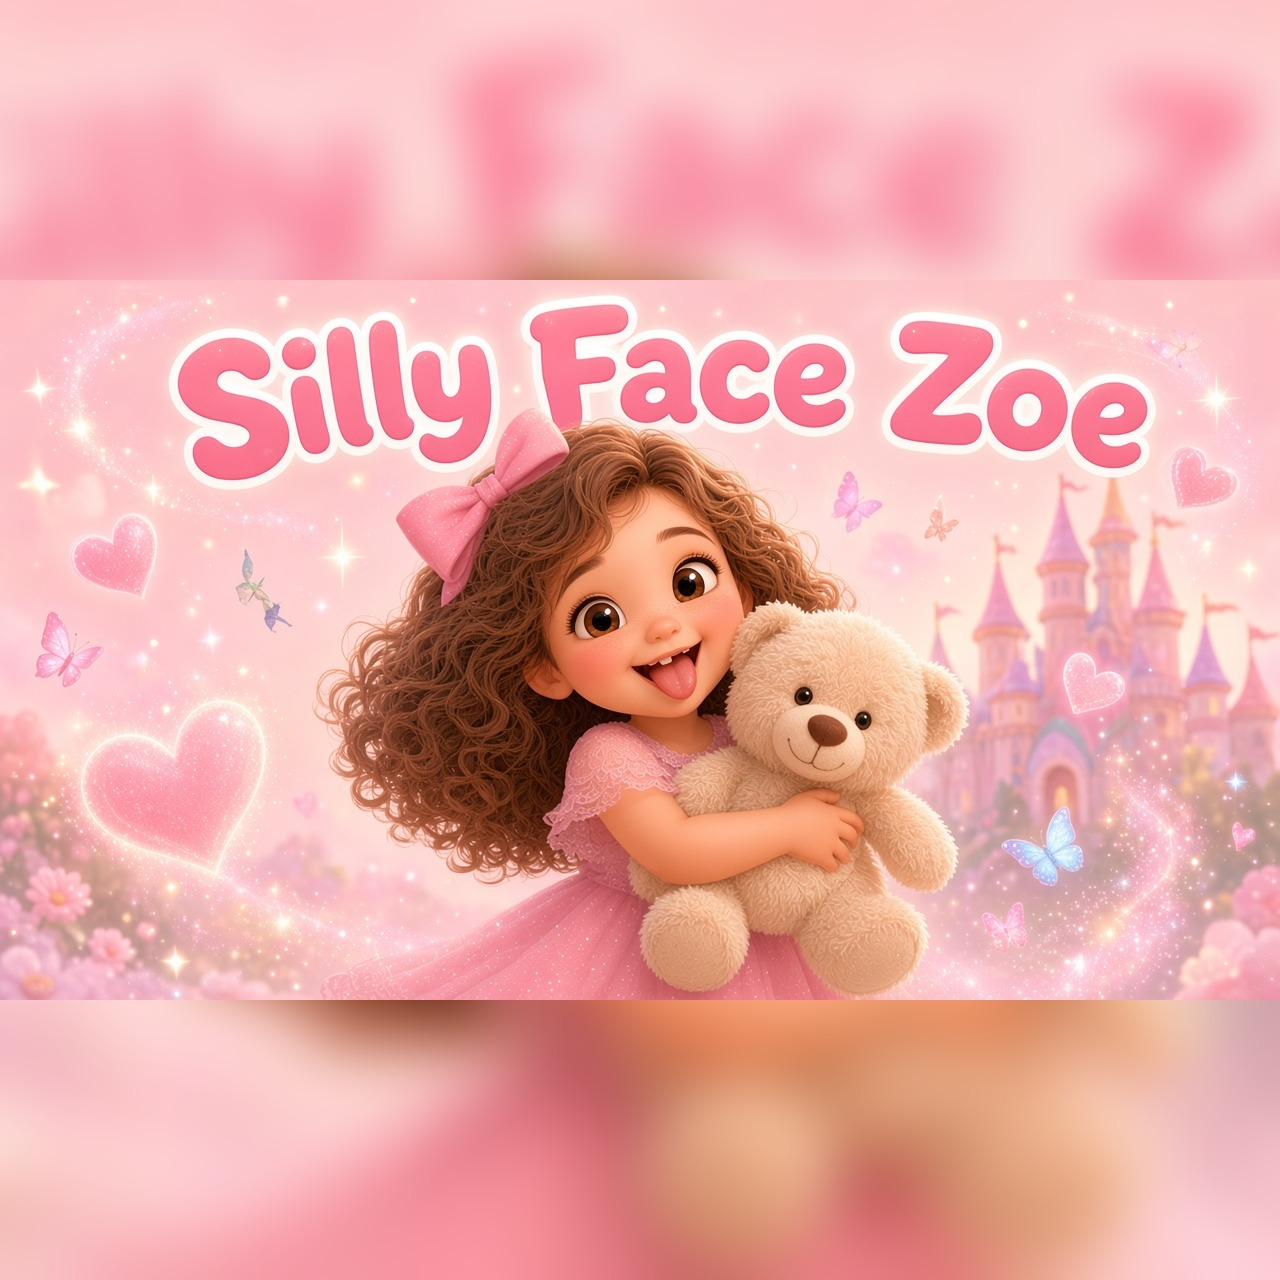
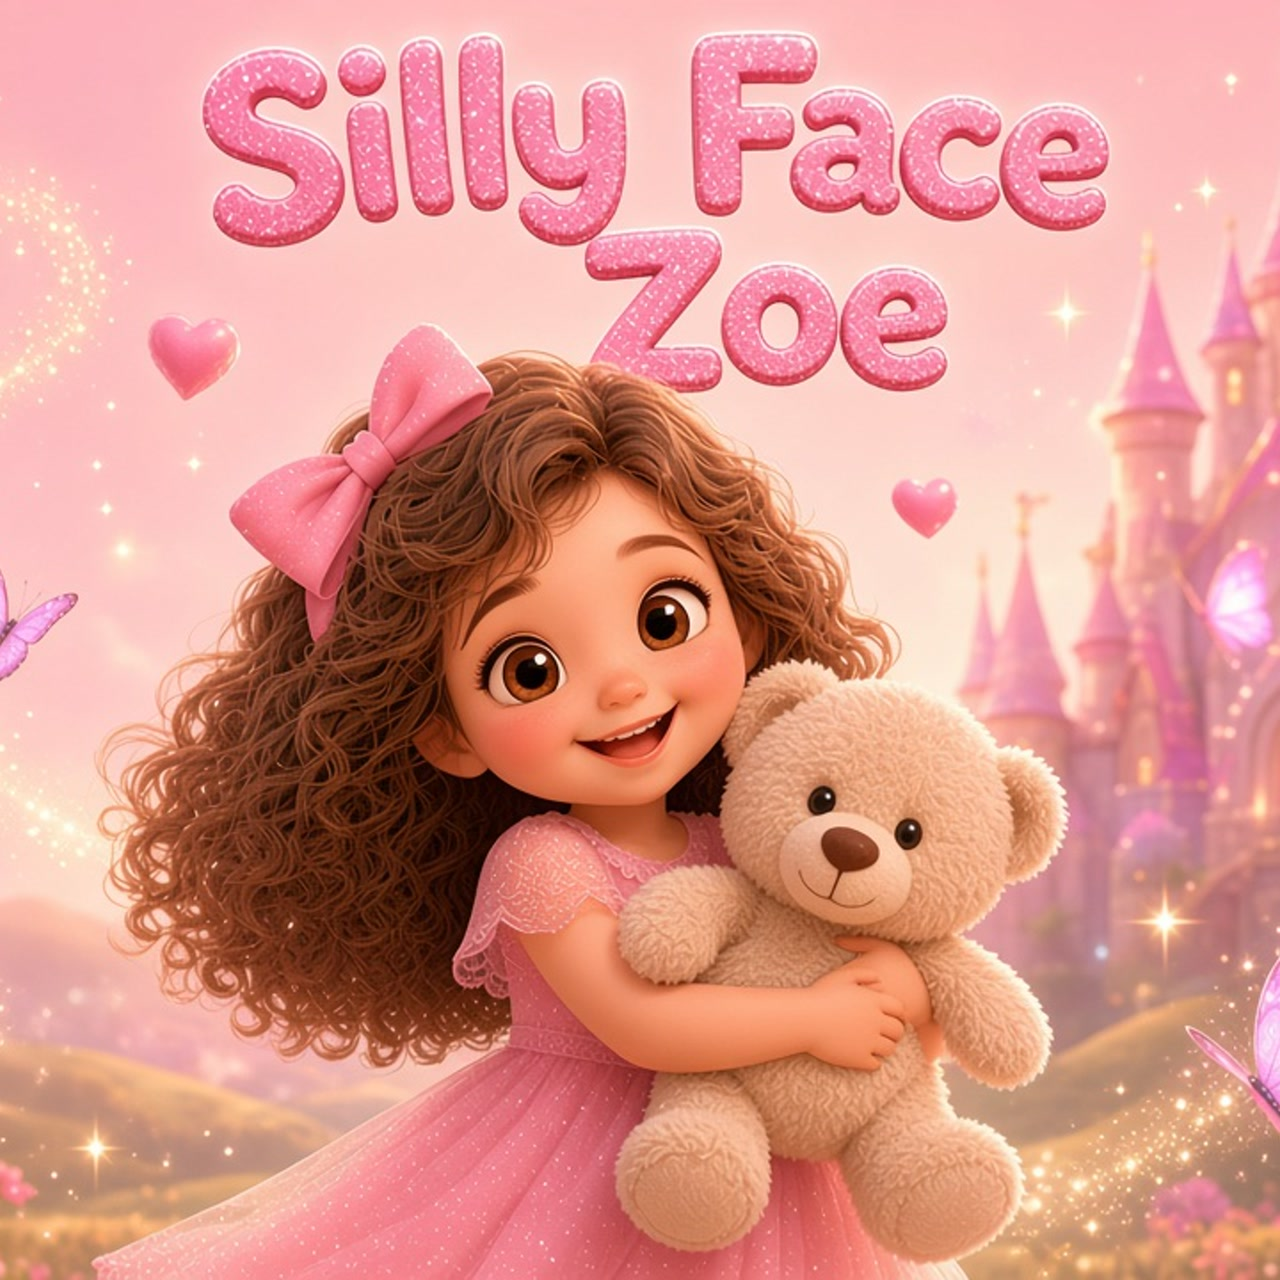
Restore Silly Face Zoe v3 to the jukebox and bump the service worker.

diff --git a/sw.js b/sw.js
@@ -1,6 +1,6 @@
 // offline support: precache everything; pages+scripts network-first (cache fallback offline), media cache-first.
 // Navigations are cached under their own URL (hub at ./, game at play/), so one page never overwrites the other.
-const P='alex-games-',V='2.9.18-20261119nosilly',C=P+V,A=["index.html", "manifest.json", "apple-touch-icon.png", "favicon-32.png", "icon-192.png", "icon-512.png", "hub/bg.jpg", "hub/alex-doodle-adventure.jpg", "hub/a_ad.mp3", "hub/alex-excavator-blowout.jpg", "hub/alex-cave-rescue.jpg", "hub/alex-galaxy-math.jpg", "hub/alex-river-run.jpg", "hub/alex-floor-is-lava.jpg", "hub/fry-thief-seagull.jpg", "hub/the-bee-game.jpg", "hub/wilson-water-pirates.jpg", "hub/dino-stampede-smash-alex.jpg", "hub/a_hi.mp3", "hub/a_eb.mp3", "hub/a_cr.mp3", "hub/a_gm.mp3", "hub/a_rr.mp3", "hub/a_fl.mp3", "hub/a_ps.mp3", "hub/a_bg.mp3", "hub/a_wp.mp3", "hub/a_ds.mp3", "hub/intro1.mp3", "hub/intro2.mp3", "hub/intro3.mp3", "hub/a_case.mp3", "hub/a_dad.mp3", "hub/silly-beat-band.jpg", "hub/a_sb.mp3", "hub/theme.mp3", "hub/doodles-song.jpg", "hub/doodles-song-poster.jpg", "hub/doodle-dance.jpg", "hub/go-alex-go.jpg", "hub/dance-with-dad.jpg", "hub/real-doodle.jpg", "hub/real-doodle.json", "hub/real-doodle/judgy-loaf.jpg", "hub/real-doodle/couch-loaf.jpg", "hub/real-doodle/big-loaf.jpg", "hub/real-doodle/paw-face.jpg", "hub/real-doodle/tree-snooze.jpg", "hub/doodle-song.css", "hub/doodle-song.js", "hub/jukebox.css", "hub/jukebox.js"];
+const P='alex-games-',V='2.9.19-20261119sillyv3',C=P+V,A=["index.html", "manifest.json", "apple-touch-icon.png", "favicon-32.png", "icon-192.png", "icon-512.png", "hub/bg.jpg", "hub/alex-doodle-adventure.jpg", "hub/a_ad.mp3", "hub/alex-excavator-blowout.jpg", "hub/alex-cave-rescue.jpg", "hub/alex-galaxy-math.jpg", "hub/alex-river-run.jpg", "hub/alex-floor-is-lava.jpg", "hub/fry-thief-seagull.jpg", "hub/the-bee-game.jpg", "hub/wilson-water-pirates.jpg", "hub/dino-stampede-smash-alex.jpg", "hub/a_hi.mp3", "hub/a_eb.mp3", "hub/a_cr.mp3", "hub/a_gm.mp3", "hub/a_rr.mp3", "hub/a_fl.mp3", "hub/a_ps.mp3", "hub/a_bg.mp3", "hub/a_wp.mp3", "hub/a_ds.mp3", "hub/intro1.mp3", "hub/intro2.mp3", "hub/intro3.mp3", "hub/a_case.mp3", "hub/a_dad.mp3", "hub/silly-beat-band.jpg", "hub/a_sb.mp3", "hub/theme.mp3", "hub/doodles-song.jpg", "hub/doodles-song-poster.jpg", "hub/doodle-dance.jpg", "hub/silly-face-zoe.jpg", "hub/go-alex-go.jpg", "hub/dance-with-dad.jpg", "hub/real-doodle.jpg", "hub/real-doodle.json", "hub/real-doodle/judgy-loaf.jpg", "hub/real-doodle/couch-loaf.jpg", "hub/real-doodle/big-loaf.jpg", "hub/real-doodle/paw-face.jpg", "hub/real-doodle/tree-snooze.jpg", "hub/doodle-song.css", "hub/doodle-song.js", "hub/jukebox.css", "hub/jukebox.js"];
 self.addEventListener('install',e=>{e.waitUntil(caches.open(C).then(c=>Promise.all(A.map(u=>fetch(new Request(u,{cache:'reload'})).then(res=>{if(res.ok)return c.put(u,res)}).catch(()=>{})))).then(()=>self.skipWaiting()))});
 self.addEventListener('activate',e=>{e.waitUntil(caches.keys().then(ks=>Promise.all(ks.filter(k=>k.startsWith(P)&&k!==C).map(k=>caches.delete(k)))).then(()=>self.clients.claim()).then(()=>self.clients.matchAll()).then(cs=>cs.forEach(c=>c.postMessage('offline-ready'))))});
 self.addEventListener('message',e=>{if(e.data==='skipWaiting')self.skipWaiting()});

diff --git a/index.html b/index.html
@@ -142,7 +142,7 @@ body::before{content:"";position:fixed;inset:0;pointer-events:none;z-index:0;bac
 #intro.rm *{animation:none!important;-webkit-animation:none!important;opacity:1!important;transform:none!important;-webkit-transform:none!important}
 #intro.rm .fw,#intro.rm .tw,#intro.rm .fall2,#intro.rm .uni,#intro.rm .tap{display:none}
 @media (orientation:portrait){#intro .msg{font-size:13vw}.th-birthday #intro .msg,#intro.th-birthday .msg{font-size:9vw}#intro .cnt{font-size:9vw}}
-</style><link rel="stylesheet" href="hub/jukebox.css?v=20261119jukebox"><link rel="stylesheet" href="hub/doodle-song.css?v=20261119jukebox"></head><body class="alex"><div id="app">
+</style><link rel="stylesheet" href="hub/jukebox.css?v=20261119sillyv3"><link rel="stylesheet" href="hub/doodle-song.css?v=20261119sillyv3"></head><body class="alex"><div id="app">
 <div id="host" style="background-image:url(hub/host.png)"></div><div id="sign">🧭</div><figure id="realdoodle" title="Real Doodle"><img src="hub/real-doodle/judgy-loaf.jpg" alt="Real Doodle the cat"><figcaption>Real Doodle</figcaption></figure>
 <div id="grid"></div></div><div id="ok"></div>
 <script>
@@ -614,4 +614,4 @@ window.__kx={week:week,render:render,openCase:openCase,state:function(){return{b
   function close(){if(box)box.classList.remove("on")}
   el.addEventListener("click",open);
 })();
-</script><script src="hub/jukebox.js?v=20261119jukebox" defer></script><script src="hub/doodle-song.js?v=20261119jukebox" defer></script></body></html>
+</script><script src="hub/jukebox.js?v=20261119sillyv3" defer></script><script src="hub/doodle-song.js?v=20261119sillyv3" defer></script></body></html>

diff --git a/hub/jukebox.js b/hub/jukebox.js
@@ -5,6 +5,7 @@
     {title:"Zoe's Games", art:"/doodle-and-zoe/hub/host.png", src:"/doodle-and-zoe/hub/videos/zoe-games-720p.mp4", poster:"/doodle-and-zoe/hub/videos/zoe-games-poster.jpg", kind:"video"},
     {title:"Doodle's Song", art:"/doodle-and-zoe/hub/doodles-song.jpg", src:"/doodle-and-zoe/hub/doodle-the-loaf-720p.mp4", kind:"video"},
     {title:"The Doodle Dance", art:"hub/doodle-dance.jpg", src:"/doodle-and-zoe/hub/videos/doodle-dance-720p.mp4", poster:"/doodle-and-zoe/hub/videos/doodle-dance-poster.jpg", kind:"video"},
+    {title:"Silly Face Zoe", art:"hub/silly-face-zoe.jpg", src:"/doodle-and-zoe/hub/videos/silly-face-zoe-720p_v3.mp4", poster:"/doodle-and-zoe/hub/videos/silly-face-zoe-poster_v3.jpg", kind:"video"},
     {title:"Go, Alex, Go!", art:"hub/go-alex-go.jpg", src:"/doodle-and-zoe/hub/videos/go-alex-go-720p.mp4", poster:"/doodle-and-zoe/hub/videos/go-alex-go-poster.jpg", kind:"video"},
     {title:"Dance With Dad", art:"hub/dance-with-dad.jpg", src:"/doodle-and-zoe/hub/videos/dance-with-dad-720p.mp4", poster:"/doodle-and-zoe/hub/videos/dance-with-dad-poster.jpg", kind:"video"},
     {title:"Alex's Games", art:"icon-192.png", src:"/doodle-and-zoe/hub/videos/alex-games-720p.mp4", poster:"/doodle-and-zoe/hub/videos/alex-games-poster.jpg", kind:"video"},
